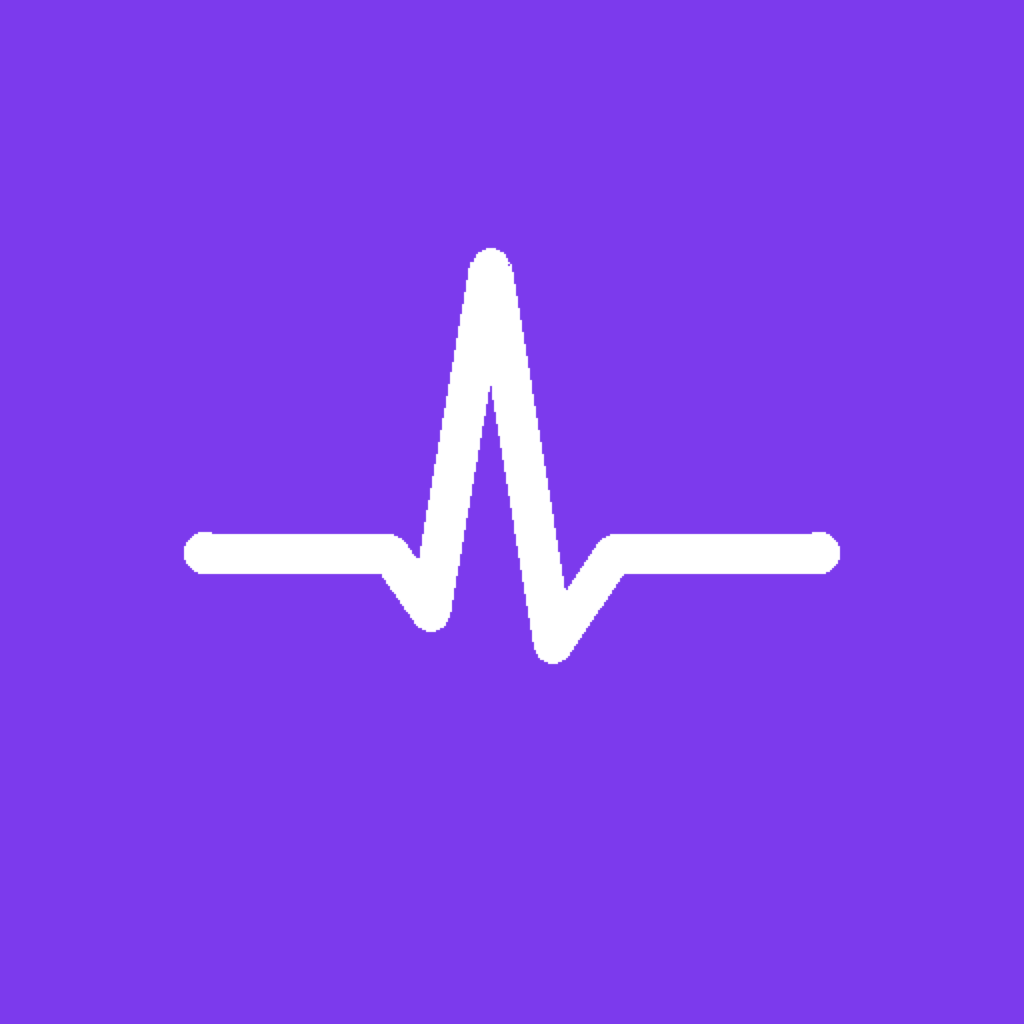
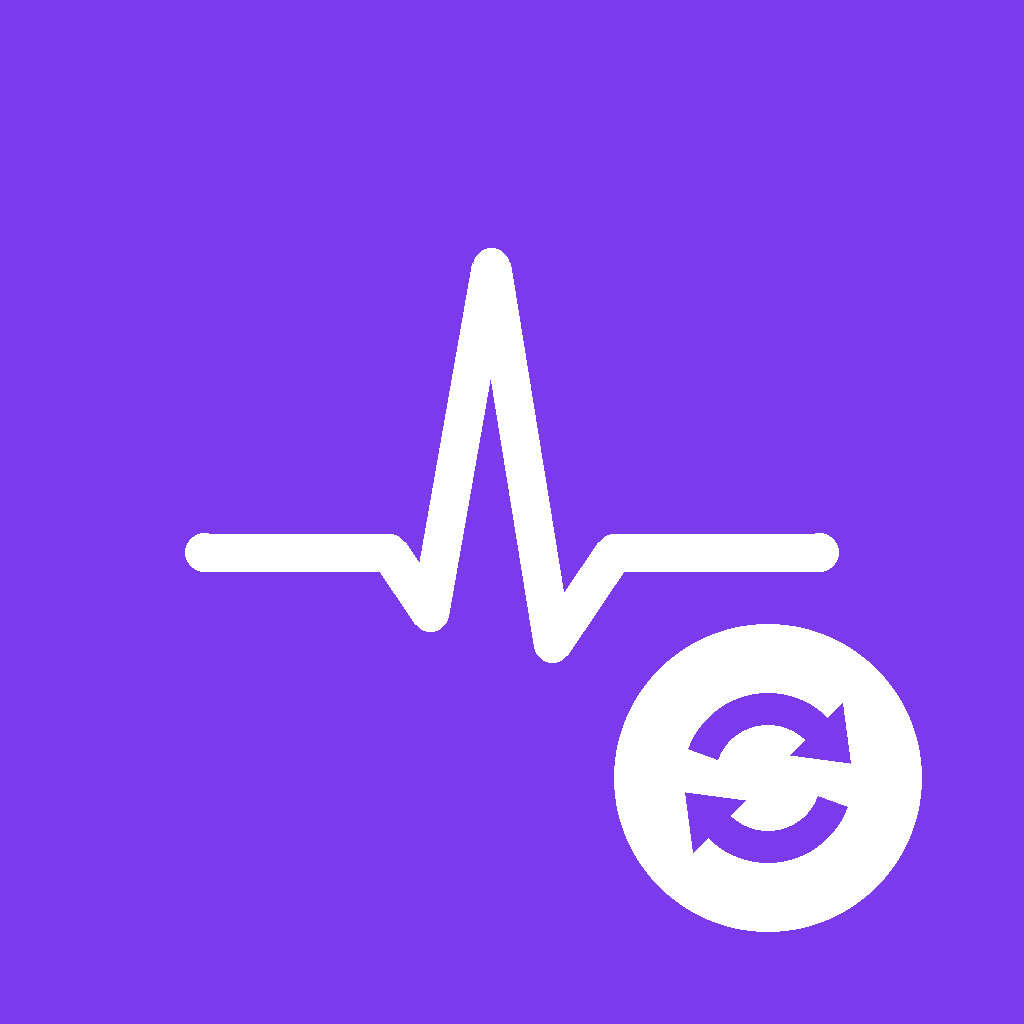
iPhone app shows as "Baseline Sync" + link to the website
Owner decision 11/21/26: testers who also have the web app on their Home
Screen saw two look-alike "Baseline" icons. The iPhone app's display name
is now "Baseline Sync" (CFBundleDisplayName; bundle ID unchanged) and its
icon carries a sync badge (generate_icons.py draw_sync_icon, 1024px).
The sync screen says where episodes and trends live and has an "Open the
Baseline website" button; Settings and Help name the app.

Also: mobile/README records the Simulator setup on this Intel Mac
(CocoaPods via gem, Health app/Safari don't render) and BACKLOG records
the Simulator run (real Health readings first checked on a real iPhone,
step 5). test_health_consent.py follows the Settings wording.

Changed region(s): [[0.5938, 0.5938, 0.9062, 0.9062]]

diff --git a/mobile/App.tsx b/mobile/App.tsx
@@ -362,10 +362,11 @@ export default function App() {
       body = (
         <>
           <Text style={s.title} accessibilityRole="header">
-            Baseline
+            Baseline Sync
           </Text>
           <Text style={s.p}>
-            Sign in with your Baseline account to sync Apple Health. Health sync is by invitation.
+            Sign in with your Baseline account to sync Apple Health. Health sync is by invitation. Everything
+            else — your dashboard, episodes and check-ins — stays on the Baseline website.
           </Text>
           <TextInput
             style={s.input}
@@ -529,6 +530,13 @@ export default function App() {
             )}
           </View>
           <Button label="Sync now" onPress={() => token && runSync(token)} disabled={syncing} busy={syncing} />
+          <Text style={s.p}>Your episodes, check-ins and trends are on the Baseline website.</Text>
+          <Button
+            label="Open the Baseline website"
+            kind="secondary"
+            hint="Opens in Safari. If you use the Baseline icon on your Home Screen, open that instead."
+            onPress={() => openWeb('/')}
+          />
           <Text style={s.small}>
             For now the app syncs while it’s open. Baseline only reads what you allowed in Apple Health; to change
             that, use {SETTINGS_PATH}.

diff --git a/templates/help.html b/templates/help.html
@@ -263,7 +263,7 @@
 
 <section class="help-section" id="apple-health">
   <h2 class="help-heading">Apple Health (iPhone app, by invitation)</h2>
-  <p>A small group is testing Baseline's iPhone app, which can sync heart rate variability (HRV) and blood glucose readings from Apple Health so you can later compare them with your episodes. It's invitation-only for now, and you sign in with the same email and password you use here.</p>
+  <p>A small group is testing Baseline's iPhone app, <strong>Baseline Sync</strong> (its icon has a small sync badge), which can sync heart rate variability (HRV) and blood glucose readings from Apple Health so you can later compare them with your episodes. It's invitation-only for now, and you sign in with the same email and password you use here. It only syncs — your dashboard, episodes and check-ins stay here.</p>
   <ul class="help-list">
     <li><strong>Your consent comes first.</strong> The app asks for your separate consent before it reads anything, and Apple Health then lets you choose which readings to share.</li>
     <li><strong>When it syncs.</strong> For now the app syncs while it's open — when you open it, when you come back to it, and when you tap Sync now. The first sync brings in up to a year of readings.</li>

diff --git a/templates/settings.html b/templates/settings.html
@@ -93,7 +93,7 @@
   <h2 class="section-title" style="margin-bottom:12px;">Apple Health</h2>
   {% if health_consent_ok %}
     <div class="settings-row-desc" style="margin-bottom:16px;">
-      Connected through the iPhone app since {{ user.health_consent_at.strftime('%B %-d, %Y') }}.
+      Connected through the Baseline Sync iPhone app since {{ user.health_consent_at.strftime('%B %-d, %Y') }}.
       Baseline has {{ health_readings }} stored reading{{ '' if health_readings == 1 else 's' }}
       (heart rate variability and blood glucose).
     </div>
@@ -120,7 +120,7 @@
     </details>
   {% else %}
     <div class="settings-row-desc">
-      Apple Health sync is available for your account. Connect it from Baseline's iPhone app — it
+      Apple Health sync is available for your account. Connect it from Baseline's iPhone app, <strong>Baseline Sync</strong> — it
       asks for your consent before reading anything.
       {% if health_readings %}
         Baseline still has {{ health_readings }} reading{{ '' if health_readings == 1 else 's' }} from

diff --git a/generate_icons.py b/generate_icons.py
@@ -3,7 +3,12 @@
 Run once:  .venv/bin/pip install Pillow && .venv/bin/python generate_icons.py
            (Pillow is dev-only, deliberately not in requirements.in.)
 Produces:  static/icons/icon-192.png, icon-512.png, apple-touch-icon.png
+           mobile/assets/icon.png (1024px, the iPhone "Baseline Sync" app: the same
+           pulse plus a sync badge, so it can't be mistaken for the web app's
+           Home Screen icon — owner decision 11/21/26)
 """
+
+import math
 
 from PIL import Image, ImageDraw
 
@@ -49,6 +54,33 @@ def draw_baseline_icon(size):
     return img
 
 
+def draw_sync_icon(size):
+    """The Baseline icon with a white sync badge (two circular arrows) in the
+    lower right, kept inside iOS's rounded-corner mask."""
+    img = draw_baseline_icon(size)
+    draw = ImageDraw.Draw(img)
+    cx, cy, r = size * 0.75, size * 0.76, size * 0.15
+    draw.ellipse([cx - r, cy - r, cx + r, cy + r], fill=LINE)
+
+    ar = r * 0.55                 # arrow ring radius
+    w = max(4, int(size * 0.032))  # arrow stroke
+    box = [cx - ar, cy - ar, cx + ar, cy + ar]
+    for start in (200, 20):        # two arcs, each with a head at its clockwise end
+        end = start + 115
+        draw.arc(box, start, end, fill=BG, width=w)
+        a = math.radians(end)
+        rc = ar - w / 2               # PIL draws a thick arc inward from its box
+        px, py = cx + rc * math.cos(a), cy + rc * math.sin(a)
+        tx, ty = -math.sin(a), math.cos(a)          # clockwise tangent
+        nx, ny = math.cos(a), math.sin(a)           # outward normal
+        length, half = w * 1.5, w * 1.15
+        tip = (px + tx * length, py + ty * length)
+        b1 = (px + nx * half, py + ny * half)
+        b2 = (px - nx * half, py - ny * half)
+        draw.polygon([tip, b1, b2], fill=BG)
+    return img
+
+
 if __name__ == "__main__":
     sizes = {
         "static/icons/icon-512.png": 512,
@@ -59,4 +91,6 @@ if __name__ == "__main__":
         img = draw_baseline_icon(sz)
         img.save(path, "PNG")
         print(f"  {path}  ({sz}x{sz})")
+    draw_sync_icon(1024).save("mobile/assets/icon.png", "PNG")
+    print("  mobile/assets/icon.png  (1024x1024, sync badge)")
     print("Done.")

diff --git a/test_health_consent.py b/test_health_consent.py
@@ -193,7 +193,7 @@ def main():
     check('id="apple-health"' in page and 'Connect it from Baseline' in page and 'Withdraw and delete' not in page,
           '[web] sync on, no consent: explains to connect from the app, no withdraw button')
     page = web_for(b).get('/settings').get_data(as_text=True)
-    check('Connected through the iPhone app since' in page and '2 stored readings' in page
+    check('Connected through the Baseline Sync iPhone app since' in page and '2 stored readings' in page
           and 'Withdraw and delete my Health data' in page and 'health-consent/withdraw' in page,
           '[web] consented: date, reading count, withdraw behind a reveal')
     r = web_for(b).post('/settings/health-consent/withdraw', follow_redirects=True)

diff --git a/Baseline Files/BACKLOG.md b/Baseline Files/BACKLOG.md
@@ -141,7 +141,7 @@ Owner decision 11/21/26 (→ *DL* "Apple Health: an invite-only iOS app follows 
 |---|---|---|
 | ~~**(2) How Health data is stored**~~ ✅ **Spec approved + storage and upload endpoint built 11/21/26** (→ `SPEC-health-data.md`, *DL*) | M | Map HRV and blood glucose onto `SPEC-tracked-values.md`: **Number-with-unit** items (ms, mg/dL) with **daily entries** (`once_per_day` or `any`), written by the sync rather than typed. To decide in the design: one daily value vs. every sample (CGM glucose is a reading every few minutes — likely store a daily summary plus, if correlation needs it, readings in their own table); a `source` on entries (`user` / `ai` / `apple_health`) and Apple's sample id so a re-sync never duplicates (idempotent upsert); units fixed per item; what happens when a user deletes data in Health. **Note:** this pulls the entries table (spec D1) ahead of the React web frontend, so the spec's "schema and readers together" (D8) needs a fresh decision for the Health path. Step-1 carry-overs (size cap, upload rate limit, account-zone day boundaries) done in step 2. |
 | **(3) Privacy policy addition + separate consent for Health data** — **owner approval required; ✅ live on staging + production 11/21/26 → `SPEC-health-data.md` §8, *DL*** | S–M | **Also cover phone sign-ins (owner 11/21/26):** step 1 stores a per-phone sign-in record (device name — often a person's name, e.g. "Missy's iPhone" — plus created / last-used / expiry times); the policy doesn't mention it yet. Owner chose to add that line here, with the Health wording, so everyone re-accepts once rather than twice. Safe meanwhile: no phone can sign in until the iOS app exists. `privacy.html` gains a Health-data section (what is read, that it's stored on Baseline's servers, never shared or used for ads — Apple's HealthKit rules require this), and a **separate** consent, recorded like `privacy_consent_at` (own timestamp + version), asked before the first sync and revocable (revoking stops sync; say what happens to data already synced). Legal / WA MHMD implications → Missy approves the wording before it ships. |
-| **(4) Minimal React Native iOS app — Health sync only** — **🔨 built 11/21/26 in `mobile/` (decisions → *DL* "iPhone app: where it lives and what it's built with"); server takes the phone's zone at sign-in. App's network + sync code verified end-to-end against a local server; first Simulator run waits on Xcode being installed** | L | **From step 2:** send the phone's IANA time zone at sign-in so a phone-first account gets correct days; first sync reaches back 1 year in batches of ≤500 (handle 429 and 409 by backing off); report deletions from the anchored query. Sign in (token from step 1) → ask HealthKit read permission for HRV + glucose → background sync to the API → a status screen ("last synced …"). No other features until the React web frontend ships. Needs the paid Apple Developer Program membership and the HealthKit capability. If the account's "Health sync enabled" flag is off, the app says so and syncs nothing. |
+| **(4) Minimal React Native iOS app — Health sync only** — **🔨 built 11/21/26 in `mobile/` (decisions → *DL* "iPhone app: where it lives and what it's built with"); server takes the phone's zone at sign-in. App's network + sync code verified end-to-end against a local server; **ran in the iOS Simulator 11/21/26** — sign-in (phone zone stored), consent, Apple's read-only permission sheet and an empty sync all work; reading real Health data is unverified (the Simulator's Health app shows a black screen on this Intel Mac) → first checked on a real iPhone in step 5** | L | **From step 2:** send the phone's IANA time zone at sign-in so a phone-first account gets correct days; first sync reaches back 1 year in batches of ≤500 (handle 429 and 409 by backing off); report deletions from the anchored query. Sign in (token from step 1) → ask HealthKit read permission for HRV + glucose → background sync to the API → a status screen ("last synced …"). No other features until the React web frontend ships. Needs the paid Apple Developer Program membership and the HealthKit capability. If the account's "Health sync enabled" flag is off, the app says so and syncs nothing. |
 | **(5) TestFlight to the circle** | S | **Also (from step 4):** turn on HealthKit **background delivery** (plugin `background: true` + register observers) and verify it on a real iPhone — step 4 syncs only while the app is open; Apple Developer Program enrollment (Individual, owner 11/21/26) and the App Store Connect app record for `com.mybaselineapp.health`; replace the upscaled 512px icon with a real 1024px one; Railway **watch paths** so commits that only touch `mobile/` don't redeploy the server (dashboard-only setting → record in STAGING_SETUP.md). Internal testing, no public link. Each build expires after 90 days → dated row "Re-upload the iOS TestFlight build" in Follow-ups. |
 
 ---
@@ -213,7 +213,7 @@ Condensed record of completed work; full detail in the Decision Log where marked
 ## Decision Log
 
 ### iPhone app: where it lives and what it's built with (Apple Health step 4, owner 11/21/26)
-**Owner decisions (each raised with short- vs long-term trade-offs):** (1) **code lives in `mobile/` in this public repo**, not a new repo — the API contract and its client change in one commit, and the app holds no secrets (bundle ID, API URL and Team ID aren't secret; the server must never rely on client code being hidden); `.dockerignore` keeps it out of the server image. (2) **Expo SDK 58 with a development build**, not bare React Native — config plugins write the HealthKit entitlement and permission text, the native `ios/` folder is generated (not committed), and upgrades are one command; HealthKit doesn't run in Expo Go. (3) **`@kingstinct/react-native-healthkit`** (v16, maintained) over `react-native-health` (last published 10/2024) — its anchored queries return deletions, which the upload's `deleted` list already accepts. (4) **Apple Developer Program as an Individual** (an Organization needs a legal entity + D-U-N-S, deferred to step 8; the developer name shown is the owner's legal name), **bundle ID `com.mybaselineapp.health`** (permanent once uploaded). (5) **Server:** no deletion endpoint was needed (the upload already takes `deleted`); the one change is an optional **`timezone` on `POST /api/v1/auth/token`**, stored with the web's "last known zone" rule through a new shared `valid_tz_name()` (Rule 3). Travel updates deferred to step 7 (Follow-ups row "Which zone decides a Health reading's day"). **Built:** sign in → privacy/flag gates → consent (text from the API, recorded before Apple's sheet) → read-only Health permission → anchored-query sync in pages of 500, anchor saved only after a page uploads, 429/409/network backoff, stop on 401/403/400 → status screen; withdraw consent; sign out. Token in the Keychain; ATS forbids plain HTTP except local networking. **Tests:** `test_api_auth.py` §15 (zone at sign-in, mutation-checked); `mobile/src/syncCore.test.ts` (paging, deletions, backoff) in a new CI job `mobile`; an end-to-end run of the app's real API client against a local server (backfill of 1,800 readings, re-sync stores nothing twice, deletions, flag-off refusal, withdraw deletes all, sign-out kills the token). **Fixed from review (QA, code, UX):** a web-side withdrawal left the phone's anchors, so re-consenting resumed instead of re-sending the deleted year — any route to the consent screen now clears them; a second phone or a reinstall never saw Apple's permission sheet — it's requested at every sync start (iOS only prompts once); an empty first query no longer saves an anchor (denied access would have skipped the year); a stuck anchor stops instead of looping; withdraw and sign-out stay available mid-sync (a generation counter stops the old run); after the server's rate limit the app pauses before retrying again; a release build refuses a non-https API URL; the zone check is now an exact IANA-name match (`posixrules`, `Factory` and case variants rejected); banner, VoiceOver, contrast and wording fixes. **Not yet run in the iOS Simulator** — Xcode wasn't installed.
+**Owner decisions (each raised with short- vs long-term trade-offs):** (1) **code lives in `mobile/` in this public repo**, not a new repo — the API contract and its client change in one commit, and the app holds no secrets (bundle ID, API URL and Team ID aren't secret; the server must never rely on client code being hidden); `.dockerignore` keeps it out of the server image. (2) **Expo SDK 58 with a development build**, not bare React Native — config plugins write the HealthKit entitlement and permission text, the native `ios/` folder is generated (not committed), and upgrades are one command; HealthKit doesn't run in Expo Go. (3) **`@kingstinct/react-native-healthkit`** (v16, maintained) over `react-native-health` (last published 10/2024) — its anchored queries return deletions, which the upload's `deleted` list already accepts. (4) **Apple Developer Program as an Individual** (an Organization needs a legal entity + D-U-N-S, deferred to step 8; the developer name shown is the owner's legal name), **bundle ID `com.mybaselineapp.health`** (permanent once uploaded). (5) **Server:** no deletion endpoint was needed (the upload already takes `deleted`); the one change is an optional **`timezone` on `POST /api/v1/auth/token`**, stored with the web's "last known zone" rule through a new shared `valid_tz_name()` (Rule 3). Travel updates deferred to step 7 (Follow-ups row "Which zone decides a Health reading's day"). **Built:** sign in → privacy/flag gates → consent (text from the API, recorded before Apple's sheet) → read-only Health permission → anchored-query sync in pages of 500, anchor saved only after a page uploads, 429/409/network backoff, stop on 401/403/400 → status screen; withdraw consent; sign out. Token in the Keychain; ATS forbids plain HTTP except local networking. **Tests:** `test_api_auth.py` §15 (zone at sign-in, mutation-checked); `mobile/src/syncCore.test.ts` (paging, deletions, backoff) in a new CI job `mobile`; an end-to-end run of the app's real API client against a local server (backfill of 1,800 readings, re-sync stores nothing twice, deletions, flag-off refusal, withdraw deletes all, sign-out kills the token). **Fixed from review (QA, code, UX):** a web-side withdrawal left the phone's anchors, so re-consenting resumed instead of re-sending the deleted year — any route to the consent screen now clears them; a second phone or a reinstall never saw Apple's permission sheet — it's requested at every sync start (iOS only prompts once); an empty first query no longer saves an anchor (denied access would have skipped the year); a stuck anchor stops instead of looping; withdraw and sign-out stay available mid-sync (a generation counter stops the old run); after the server's rate limit the app pauses before retrying again; a release build refuses a non-https API URL; the zone check is now an exact IANA-name match (`posixrules`, `Factory` and case variants rejected); banner, VoiceOver, contrast and wording fixes. **Simulator run (same day):** sign-in, consent, Apple's permission sheet and an empty sync verified; the Simulator's Health app wouldn't open, so reading real readings waits for a real iPhone (step 5).
 
 ### Side-effect-free import: database setup is an explicit `flask init-db` step (review F7, 11/21/26)
 Step 1a of the Apple Health plan. Importing `app.py` used to run `create_all`, the migrations, the unverified-user purge, the admin flag, the Resend backfill and the FK check against whatever `DATABASE_URL` was set — so a test, a script or a REPL in a shell with a production URL exported wrote to production. **Now `init_db()` does that work, and only when asked:** the Dockerfile `CMD` is `flask --app app init-db && exec gunicorn …` (once per container start, before gunicorn binds; a failed init-db exits the container instead of serving on an unmigrated schema; gunicorn still becomes PID 1 via `exec`), `python app.py` calls it for local dev, and every test suite and script calls it explicitly (`eval_checkin.py` and `seed_staging.py` only after their safety guards, which they couldn't do before). **Found while building:** the delete routes' FK safety gate (`FK_SCHEMA_PROBLEMS`) was filled by the import-time FK check; with init-db in a separate process the web process would have read "no problems" and the gate would have silently switched off. It is now computed lazily in the serving process on first use. **Options weighed:** a full app factory + splitting `app.py` now vs. this minimal explicit step — chose minimal (removes the trap without a 5,800-line restructure; a factory can follow when the API layer needs it); Railway's dashboard Pre-deploy Command vs. the Dockerfile `CMD` — chose the `CMD` so the repo stays the one definition of how the app starts. **Unlocks:** more than one gunicorn worker per container (its own change) and Alembic. New suite `test_init_db.py`.

diff --git a/mobile/README.md b/mobile/README.md
@@ -1,4 +1,9 @@
-# Baseline Health sync (iPhone)
+# Baseline Sync (iPhone)
+
+Shown on the Home Screen as **Baseline Sync**, with a sync badge on the Baseline icon, so testers who also
+have the web app on their Home Screen can tell the two apart (owner decision 11/21/26). Rename it to
+"Baseline" when it becomes the full app (`CFBundleDisplayName` in `app.json`; the bundle ID doesn't change).
+Icon: `generate_icons.py` (`draw_sync_icon`).
 
 Apple Health plan **step 4**: a minimal iPhone app whose only job is syncing Apple Health readings —
 heart rate variability (SDNN) and blood glucose — to Baseline's `/api/v1` API. Invite-only (TestFlight
@@ -44,9 +49,19 @@ Background sync (HealthKit background delivery) is **step 5** — it can only be
 
 ## Run it in the iOS Simulator
 
-Needs **Xcode** (Mac App Store) — run it once to install the iOS platform, then
-`sudo xcode-select -s /Applications/Xcode.app`. Node 24. No Apple Developer account is needed for the
-Simulator.
+Needs **Xcode** (Mac App Store) and its iOS Simulator (`xcodebuild -downloadPlatform iOS`, or Xcode ›
+Settings › Components), then `sudo xcode-select -s /Applications/Xcode.app/Contents/Developer`. Node 24.
+No Apple Developer account is needed for the Simulator.
+
+**CocoaPods** (the build fetches the HealthKit library's native code with it). On this Intel Mac Homebrew
+has no ready-made build and compiles LLVM from source for hours, so it's installed as a Ruby gem with
+Homebrew's bundled Ruby instead (11/21/26) — and that Ruby must come first on `PATH` when building:
+
+```bash
+RUBY_BIN=/usr/local/Homebrew/Library/Homebrew/vendor/portable-ruby/current/bin
+$RUBY_BIN/gem install cocoapods --user-install --no-document     # once; again after a big Homebrew update
+export PATH="$RUBY_BIN:$HOME/.local/share/gem/ruby/4.0.0/bin:$PATH" LANG=en_US.UTF-8
+```
 
 ```bash
 cd mobile
@@ -59,7 +74,14 @@ EXPO_PUBLIC_API_URL=http://localhost:5001 npx expo run:ios   # against ./run.sh 
 flag on (`/admin/users` on that server).
 
 **Health data in the Simulator:** open the Health app → Browse → Heart → Heart Rate Variability (or
-Other Data → Blood Glucose) → Add Data. Then come back to Baseline and tap Sync now.
+Other Data → Blood Glucose) → Add Data. Then come back to Baseline and tap Sync now. *Known issue
+(11/21/26): on this Intel Mac the iOS 26.5 Simulator's Health app opens to a black screen, so no readings
+could be added there — reading real Health data is first checked on a real iPhone (step 5).*
+
+**If the app opens on Expo's launcher instead of Baseline:** start the dev server
+(`EXPO_PUBLIC_API_URL=… npx expo start --dev-client`) and choose it, or "Enter URL manually" →
+`http://localhost:8081`. `expo run:ios` may end with an `osascript` error about the Simulator window on this
+Mac — the app is installed anyway.
 
 ## Tests
 
